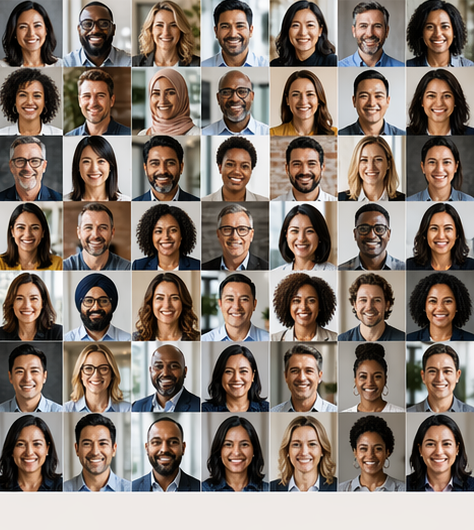
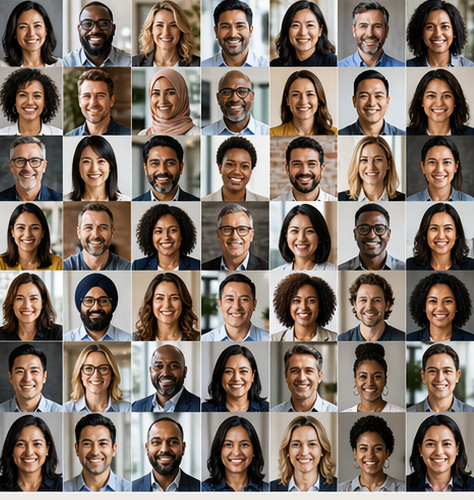
fix(responsive): polish menu state mobile ribbon and home collage crop

diff --git a/app/public/wp-content/themes/ncasolutions/assets/css/layout.css b/app/public/wp-content/themes/ncasolutions/assets/css/layout.css
@@ -73,6 +73,17 @@
     font-weight: 700;
 }
 
+.primary-menu .menu-item.current-menu-item > a::after,
+.primary-menu .menu-item.current_page_item > a::after {
+    content: "";
+    position: absolute;
+    left: 0;
+    right: 0;
+    bottom: -0.42rem;
+    height: 2px;
+    background: currentColor;
+}
+
 .primary-menu .menu-item-connect > a {
     min-height: 3.2rem;
     padding-inline: 1.42rem;
@@ -189,5 +200,10 @@
     .primary-menu .menu-item-connect > a {
         min-height: 2.7rem;
         font-size: 0.95rem;
+    }
+
+    .nca-footer-ribbon {
+        letter-spacing: 0.12em;
+        font-size: 0.8rem;
     }
 }